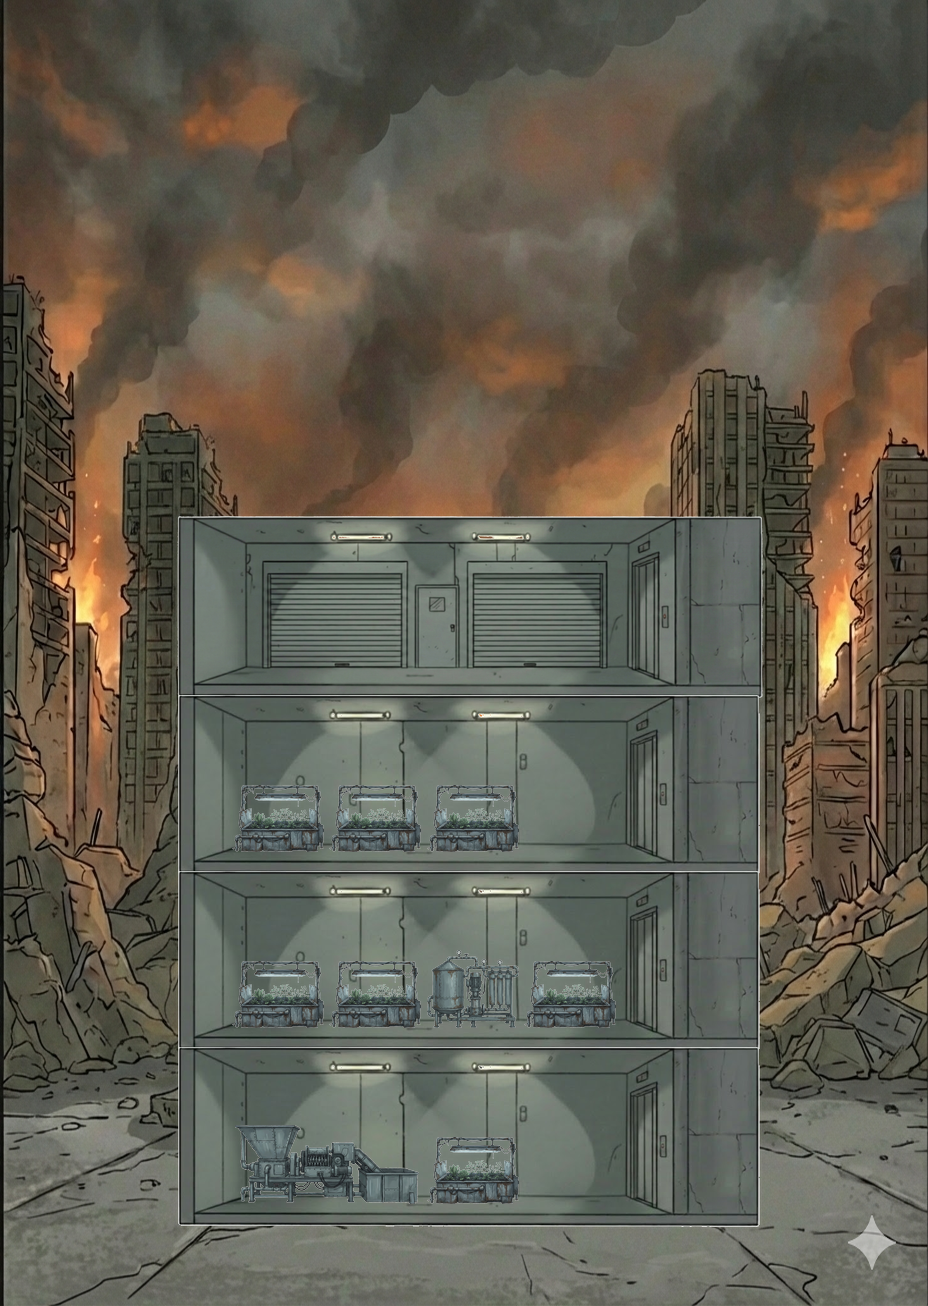
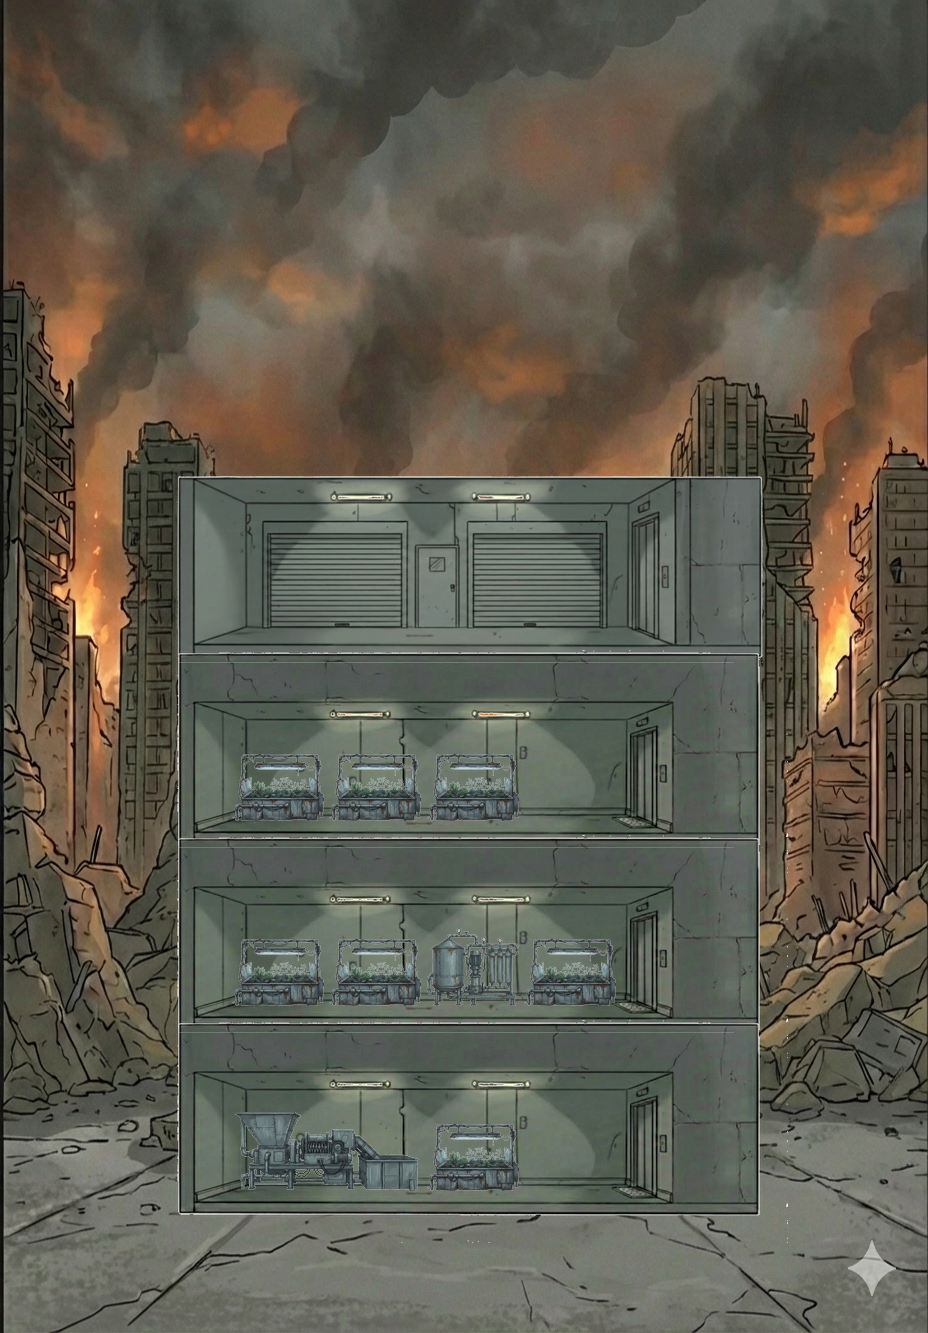
feat: Introduce script for procedural generation of composite bunker maps including background removal and object placement.

Changed region(s): [[0.1875, 0.3369, 0.8438, 0.9495]]

diff --git a/New_maps/create_bunker_map.py b/New_maps/create_bunker_map.py
@@ -32,6 +32,96 @@ def remove_white_background(image, threshold=240):
     
     return Image.fromarray(data)
 
+def create_textured_slab(width, height, texture_source):
+    """
+    Creates a procedural floor slab/beam image using a texture from an existing image.
+    
+    Args:
+        width: Target width of the slab.
+        height: Target height of the slab.
+        texture_source: PIL Image to sample texture from (e.g., a room image).
+    """
+    # 1. Extract a CLEAN strip from the texture source to use as base
+    # We want to avoid features like doors or lights.
+    # A safe bet is the wall section (top 20%) but only a small horizontal slice.
+    # The room likely has clean concrete on the far left or slightly left of center.
+    src_w, src_h = texture_source.size
+    
+    # Target the upper-middle wall section
+    crop_y_start = int(src_h * 0.20)  # Start at 20% from top
+    crop_height = 40
+    
+    # Define a "safe patch" width. 
+    # Left side (x=50) usually has clean wall before the first door/feature.
+    patch_x_start = 50
+    patch_width = 100  # Take a 100px wide sample
+    if patch_x_start + patch_width > src_w:
+        patch_width = src_w - patch_x_start
+        
+    patch = texture_source.crop((patch_x_start, crop_y_start, patch_x_start + patch_width, crop_y_start + crop_height))
+    
+    # 2. Tile the patch to fill the target width
+    # Create the base slab image
+    slab = Image.new('RGBA', (width, height))
+    
+    # Resize patch to target height first
+    patch_resized = patch.resize((patch_width, height), Image.Resampling.LANCZOS)
+    
+    # Tile it horizontally
+    for x in range(0, width, patch_width):
+        # Calculate width to paste (handle last chunk being smaller)
+        paste_w = min(patch_width, width - x)
+        if paste_w < patch_width:
+            chunk = patch_resized.crop((0, 0, paste_w, height))
+            slab.paste(chunk, (x, 0))
+        else:
+            slab.paste(patch_resized, (x, 0))
+    
+    # 3. Apply color correction to ensure it matches the gray-green concrete
+    data = np.array(slab)
+    
+    # Ensure we have alpha channel to work with
+    if len(data.shape) == 2:  # Grayscale
+        data = np.dstack((data, data, data, np.full((height, width), 255, dtype=np.uint8)))
+    elif data.shape[2] == 3:  # RGB
+        data = np.dstack((data, np.full((height, width), 255, dtype=np.uint8)))
+    
+    # Cast to float for color manipulation
+    data_float = data.astype(np.float32)
+    
+    # Slightly desaturate to match the concrete wall look (reduce color variance)
+    gray = 0.299 * data_float[:,:,0] + 0.587 * data_float[:,:,1] + 0.114 * data_float[:,:,2]
+    desaturation_factor = 0.3  # Blend 30% toward grayscale
+    for i in range(3):
+        data_float[:,:,i] = data_float[:,:,i] * (1 - desaturation_factor) + gray * desaturation_factor
+    
+    # Apply a slight tint toward the gray-green concrete color (matching room walls)
+    # Target color: approximately (140, 150, 145) - the grayish-green of the walls
+    target_r, target_g, target_b = 140, 150, 145
+    tint_strength = 0.2
+    data_float[:,:,0] = data_float[:,:,0] * (1 - tint_strength) + target_r * tint_strength
+    data_float[:,:,1] = data_float[:,:,1] * (1 - tint_strength) + target_g * tint_strength
+    data_float[:,:,2] = data_float[:,:,2] * (1 - tint_strength) + target_b * tint_strength
+    
+    # Convert to int16 for shading operations
+    data_int = np.clip(data_float, 0, 255).astype(np.int16)
+    
+    # Highlight top 2 pixels (lighter edge)
+    data_int[0:2, :, 0:3] = np.clip(data_int[0:2, :, 0:3] + 30, 0, 255)
+    
+    # Shadow bottom 2 pixels (darker edge)
+    data_int[-2:, :, 0:3] = np.clip(data_int[-2:, :, 0:3] - 30, 0, 255)
+    
+    # Subtle vertical panel lines (every 80px for larger, more industrial spacing)
+    for x in range(0, width, 80):
+        if x + 2 < width:
+            data_int[:, x:x+2, 0:3] = np.clip(data_int[:, x:x+2, 0:3] - 20, 0, 255)
+    
+    # Convert back to uint8
+    data = data_int.astype(np.uint8)
+            
+    return Image.fromarray(data)
+
 def place_object(composite, room_pos, asset_image, start_slot, slot_width_slots, asset_name="Object"):
     """
     Places an object in a room based on the standardized grid system.
@@ -95,7 +185,7 @@ def create_bunker_map():
     project_root = os.path.dirname(script_dir)
     
     background_path = os.path.join(script_dir, "background_city.png")
-    normal_room_path = os.path.join(script_dir, "EmptyRoomAsset_Office6.jpg")
+    normal_room_path = os.path.join(script_dir, "image copy.png")
     entrance_path = os.path.join(script_dir, "EmptyGarageAsset_Office5.png")
     garden_path = os.path.join(project_root, "Objects", "Garden", "hydroponic_garden.png")
     scrap_machine_path = os.path.join(project_root, "Objects", "Machines", "metal_scrap_machine.png")
@@ -162,8 +252,40 @@ def create_bunker_map():
     entrance_scaled = entrance_transparent.resize((new_entrance_width, new_entrance_height), Image.Resampling.LANCZOS)
     normal_room_scaled = normal_room_transparent.resize((new_room_width, new_room_height), Image.Resampling.LANCZOS)
     
+    # Resize rooms
+    entrance_scaled = entrance_transparent.resize((new_entrance_width, new_entrance_height), Image.Resampling.LANCZOS)
+    normal_room_scaled = normal_room_transparent.resize((new_room_width, new_room_height), Image.Resampling.LANCZOS)
+    
+    # --- SLAB CREATION ---
+    slab_height = 1
+    # Slab Width: Scaled down to not protrude past walls (88%)
+    slab_width = int(new_room_width * 0.90)
+    
+    # Use custom slab image provided by user
+    print("Loading custom slab image: image.png")
+    custom_slab_path = os.path.join(script_dir, "image.png")
+    
+    if os.path.exists(custom_slab_path):
+        custom_slab = Image.open(custom_slab_path).convert('RGBA')
+        
+        # Remove white background
+        custom_slab_transparent = remove_white_background(custom_slab, threshold=240)
+        
+        # Crop to content
+        if custom_slab_transparent.getbbox():
+            custom_slab_transparent = custom_slab_transparent.crop(custom_slab_transparent.getbbox())
+            
+        # Resize to target dimensions
+        slab_image = custom_slab_transparent.resize((slab_width, slab_height), Image.Resampling.LANCZOS)
+        print(f"Created slab from custom image: {slab_image.size}")
+    else:
+        # Fallback to texture generation if image not found (just in case)
+        print("Custom slab image not found, falling back to textured generation.")
+        slab_image = create_textured_slab(slab_width, slab_height, normal_room_scaled)
+        print(f"Created fallback slab image: {slab_image.size}")
+
     # Check if we need to extend the background
-    vertical_padding = -50 # Overlap rooms more to bring them closer together
+    vertical_padding = -39 # Increased overlap (was -25) to move rooms closer
     num_normal_rooms = 3
     
     total_needed_height = 500 + new_entrance_height + (num_normal_rooms * (new_room_height + vertical_padding)) + 50
@@ -183,7 +305,9 @@ def create_bunker_map():
     x_offset = (bg_width - new_entrance_width) // 2
     
     # Place entrance at the top with some padding
-    y_position = 500  # Push rooms down from top
+    # Y Position: Shifted UP to compensate for increased spacing (was 500)
+    # Goal: Keep bottom room fixed.
+    y_position = 460  
     composite.paste(entrance_scaled, (x_offset, y_position), entrance_scaled)
     print(f"Placed entrance at: ({x_offset}, {y_position})")
     
@@ -196,8 +320,31 @@ def create_bunker_map():
     for i in range(num_normal_rooms):
         room_x_offset = (bg_width - new_room_width) // 2
         composite.paste(normal_room_scaled, (room_x_offset, int(y_position)), normal_room_scaled)
+        
+        # --- PLACE SLAB OVERLAY ---
+        # We want the slab between THIS room (i) and the PREVIOUS room (i-1).
+        
+        # Intersection math:
+        # Overlap Zone = [y_position, y_position + abs(vertical_padding)]
+        # We assume vertical_padding is negative (-30).
+        # So overlap height is 30.
+        # Slab Y = y_position + (abs(vertical_padding) - slab_height) / 2
+        
+        # OFFSETS for visual alignment (User req: "move a bit top and bit right")
+        SLAB_OFFSET_Y = -6  # Move UP (Reduced from -12)
+        SLAB_OFFSET_X = 8   # Move RIGHT (Reduced from 16)
+        
+        overlap_height = abs(vertical_padding)
+        slab_y_offset = (overlap_height - slab_height) // 2
+        final_slab_y = int(y_position + slab_y_offset + SLAB_OFFSET_Y)
+        
+        # Center Slab Horizontally + Offset
+        slab_x_offset = room_x_offset + (new_room_width - slab_width) // 2 + SLAB_OFFSET_X
+        
+        composite.paste(slab_image, (slab_x_offset, final_slab_y), slab_image)
+        
         room_positions.append((room_x_offset, int(y_position), new_room_width, new_room_height))
-        print(f"Placed normal room {i+1} at: ({room_x_offset}, {int(y_position)})")
+        print(f"Placed normal room {i+1} at: ({room_x_offset}, {int(y_position)}) with Slab at {final_slab_y}")
         y_position += new_room_height + vertical_padding
     
     # --- ASSET PLACEMENT ---
